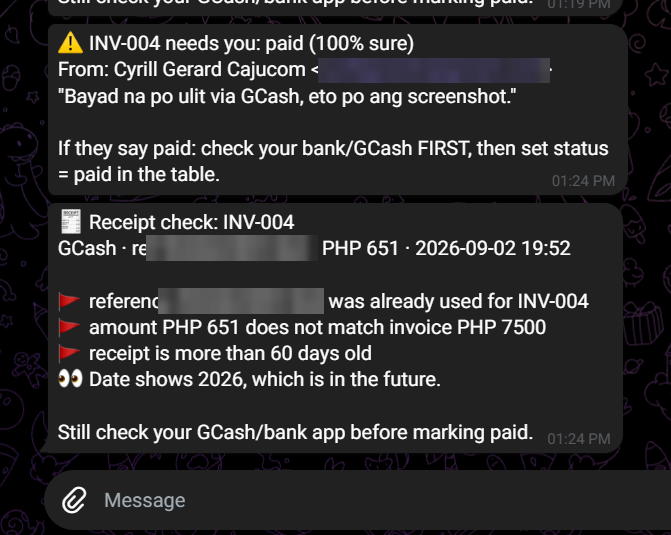
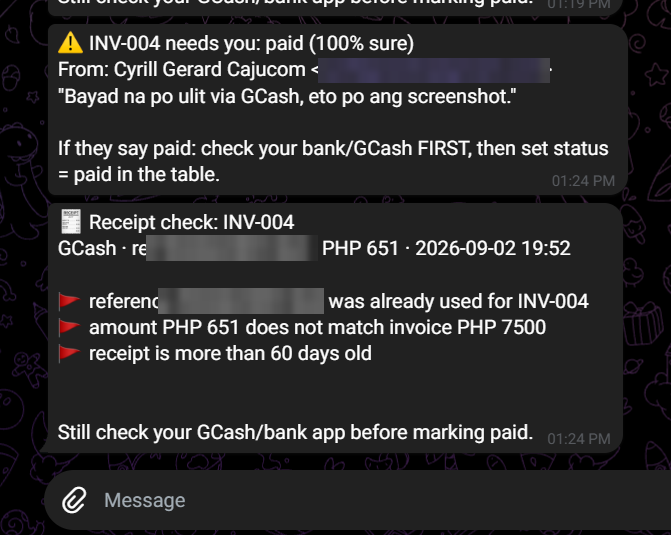
README: approval card as hero image, clean up receipt screenshot

Changed region(s): [[0.0894, 0.6879, 0.6557, 0.7477]]

diff --git a/README.md b/README.md
@@ -7,7 +7,8 @@
 
 *Kinsenas* is the 15th-of-the-month payday. Reminders go out right after payday, when customers actually have money.
 
-![Fake-receipt check](screenshots/receipt-check-reused-ref.png)
+<p align="center"><img src="screenshots/00-hero-approval.png" width="560" alt="AI-written reminder waiting for one-tap approval in Telegram, with the customer's promise score"></p>
+<p align="center"><em>Gemini writes the reminder, shows the customer's promise score, and waits for one tap in Telegram.</em></p>
 
 ## What it does
 
